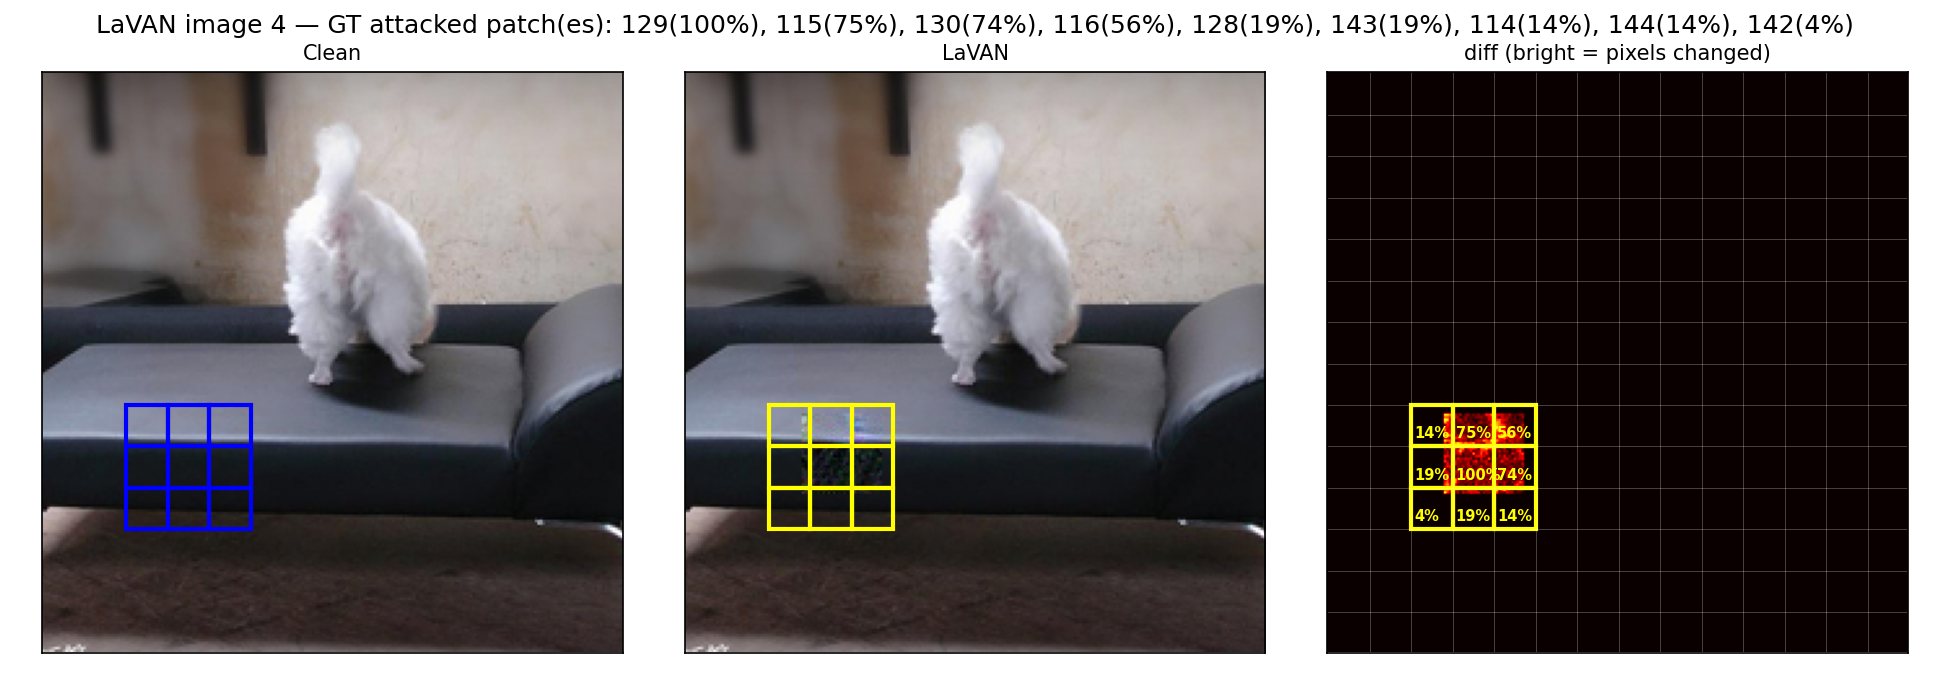
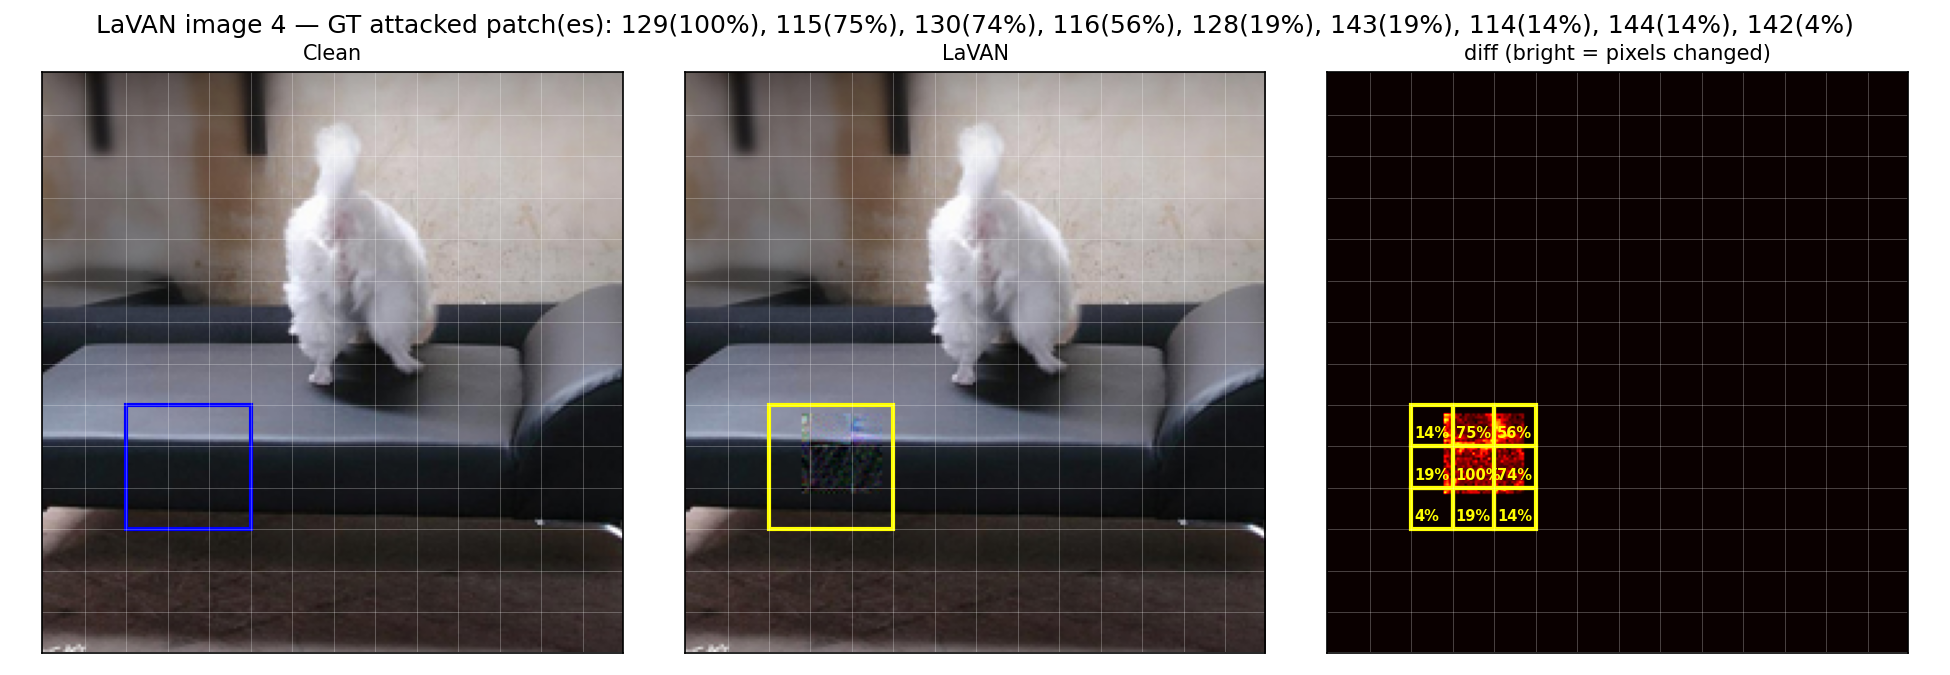
Replace per-patch GT boxes with a single bounding rectangle on clean/adv
Restore the background patch grid on all panels (previous commit removed
it from LaVAN's clean/adv panels, but that wasn't the actual problem).
The real issue: drawing a separate box per overlapping patch made
LaVAN's GT marking look like its own 3x3 grid, which is what was
obscuring the attack. Clean/adv panels now draw one rectangle spanning
the full extent of the GT patches instead. The diff panel keeps the
detailed per-patch boxes + coverage %, since that's the one place the
per-patch breakdown is actually useful. PatchFool is visually unchanged
(single patch -> bbox and per-patch box are identical), confirmed
byte-identical output.

Changed region(s): [[0.3692, 0.5911, 0.4615, 0.7778], [0.0615, 0.6533, 0.1538, 0.7778], [0.0615, 0.5911, 0.0923, 0.6222]]

diff --git a/01_patch_attack_detector/ground_truth/gt_plot.py b/01_patch_attack_detector/ground_truth/gt_plot.py
@@ -40,17 +40,32 @@ def _draw_patch_box(ax, patch_idx, color, label=None, ppl=PPL, patch_size=PATCH_
                 color=color, fontsize=7, fontweight='bold', va='bottom')
 
 
+def _draw_bbox(ax, gt_patches, color, ppl=PPL, patch_size=PATCH_SIZE, lw=2.0):
+    """gt_patches(여러 patch에 걸친 GT)를 patch별로 따로따로가 아니라, 전부를 감싸는
+    사각형 하나로 그린다 — LaVAN처럼 겹친 patch가 여러 개면 patch 경계마다 박스를 치는
+    게 오히려 3x3 격자처럼 보여서 attack이 안 보인다는 피드백 반영."""
+    rows = [p // ppl for p, _ in gt_patches]
+    cols = [p % ppl for p, _ in gt_patches]
+    r0, r1 = min(rows), max(rows)
+    c0, c1 = min(cols), max(cols)
+    ax.add_patch(Rectangle((c0 * patch_size, r0 * patch_size),
+                            (c1 - c0 + 1) * patch_size, (r1 - r0 + 1) * patch_size,
+                            fill=False, edgecolor=color, lw=lw))
+
+
 def plot_gt_locations(repr_by_group, img_idx, group, out_path, gt_min_frac=0.01):
-    """공격이 실제로 건드린 patch(들)을 [clean | adv | diff 히트맵] 세 장에 박스로 표시한다
-    (clean 패널도 박스를 지우지 않는다 — 지우면 adv 패널과 같은 위치인지 비교하기 어려워
-    지므로, 대신 clean은 파랑/공격은 노랑으로 색만 달리해서 구분한다). 겹침 비율(%) 라벨은
-    LaVAN처럼 patch가 여러 개·부분적으로 겹칠 때만 의미가 있고, 그중에서도 diff 패널
-    (실제로 무엇이 얼마나 바뀌었는지 보는 곳)에만 적는다 — clean/adv 패널은 GT 위치만
-    보면 되지 겹침 비율 숫자까지 필요하지 않다. PatchFool은 항상 patch 정확히 1개가
-    100%라 어느 패널에도 라벨을 안 붙인다(title에 patch 번호는 그대로 나온다). GT는
-    순전히 gt_lib.gt_coverage(픽셀 diff)로 계산한 것이고, attention이나 탐지기 결과는
-    이 그림에 전혀 들어가지 않는다. repr_by_group[group]['images'/'gt_coverage']가
-    없으면(구버전 npz) 조용히 건너뛴다."""
+    """공격이 실제로 건드린 patch(들)을 [clean | adv | diff 히트맵] 세 장에 표시한다.
+    clean/adv 두 패널은 배경 patch 격자는 그대로 두되(patch 경계 참고용), GT 표시는
+    patch별로 따로 박스를 치지 않고 **전부를 감싸는 사각형 하나**로만 그린다 — LaVAN처럼
+    여러 patch에 걸쳐 있을 때 patch마다 박스를 치면 그 자체로 3x3 격자처럼 보여서 오히려
+    공격이 잘 안 보인다는 피드백 반영. patch별 겹침 비율(%)까지 자세히 보여주는 건 diff
+    패널 하나뿐 — 거기서만 patch별 박스+라벨을 그린다. clean은 파랑, 공격(adv/diff)은
+    노랑으로 색만 달리해서 clean인지 공격인지 구분한다(clean도 박스를 지우지 않아야 adv
+    패널과 같은 위치인지 바로 비교된다). PatchFool은 항상 patch 정확히 1개뿐이라 bbox와
+    개별 patch 박스가 어차피 같은 모양이 되고, 라벨도 필요 없어 안 붙인다(title에 patch
+    번호는 그대로 나온다). GT는 순전히 gt_lib.gt_coverage(픽셀 diff)로 계산한 것이고,
+    attention이나 탐지기 결과는 이 그림에 전혀 들어가지 않는다.
+    repr_by_group[group]['images'/'gt_coverage']가 없으면(구버전 npz) 조용히 건너뛴다."""
     if 'images' not in repr_by_group.get('clean', {}) or \
        'images' not in repr_by_group.get(group, {}) or \
        'gt_coverage' not in repr_by_group.get(group, {}):
@@ -63,24 +78,22 @@ def plot_gt_locations(repr_by_group, img_idx, group, out_path, gt_min_frac=0.01)
     show_pct = (group != 'patchfool')
 
     diff = np.abs(_unnormalize(adv_img) - _unnormalize(clean_img)).sum(axis=-1)
-    # LaVAN은 attention 대신 눈에 잘 안 띄는 작은 패치를 공격하는데, 격자선이 그 위에
-    # 겹치면 오히려 공격이 더 안 보인다 — clean/adv 두 사진은 격자 없이 원본 그대로
-    # 보여주고, 격자는 patch 경계가 실제로 필요한 diff 패널에만 그린다. PatchFool은
-    # 공격 자체가 이미 뚜렷한 노이즈라 격자가 있어도 안 가려서 그대로 둔다.
-    grid_panels = (0, 1, 2) if group != 'lavan' else (2,)
 
     fig, axes = plt.subplots(1, 3, figsize=(13, 4.5))
-    panels = [(axes[0], _unnormalize(clean_img), 'Clean', CLEAN_BOX_COLOR, False),
-              (axes[1], _unnormalize(adv_img), f'{GROUP_LABELS[group]}', ATTACK_BOX_COLOR, False),
-              (axes[2], diff, 'diff (bright = pixels changed)', ATTACK_BOX_COLOR, show_pct)]
-    for i, (ax, img, title, box_color, label_here) in enumerate(panels):
+    panels = [(axes[0], _unnormalize(clean_img), 'Clean', CLEAN_BOX_COLOR),
+              (axes[1], _unnormalize(adv_img), f'{GROUP_LABELS[group]}', ATTACK_BOX_COLOR),
+              (axes[2], diff, 'diff (bright = pixels changed)', ATTACK_BOX_COLOR)]
+    for i, (ax, img, title, box_color) in enumerate(panels):
         cmap = None if img.ndim == 3 else 'hot'
         ax.imshow(img, cmap=cmap)
-        if i in grid_panels:
-            _draw_patch_grid(ax)
-        for p, frac in gt_patches:
-            label = f'{frac:.0%}' if label_here else None
-            _draw_patch_box(ax, p, box_color, label=label)
+        _draw_patch_grid(ax)
+        if gt_patches:
+            if i == 2:   # diff: patch별 상세(경계 + 겹침 %)
+                for p, frac in gt_patches:
+                    label = f'{frac:.0%}' if show_pct else None
+                    _draw_patch_box(ax, p, box_color, label=label)
+            else:        # clean/adv: 감싸는 사각형 하나만
+                _draw_bbox(ax, gt_patches, box_color)
         ax.set_xticks([]); ax.set_yticks([])
         ax.set_title(title, fontsize=10)
 
